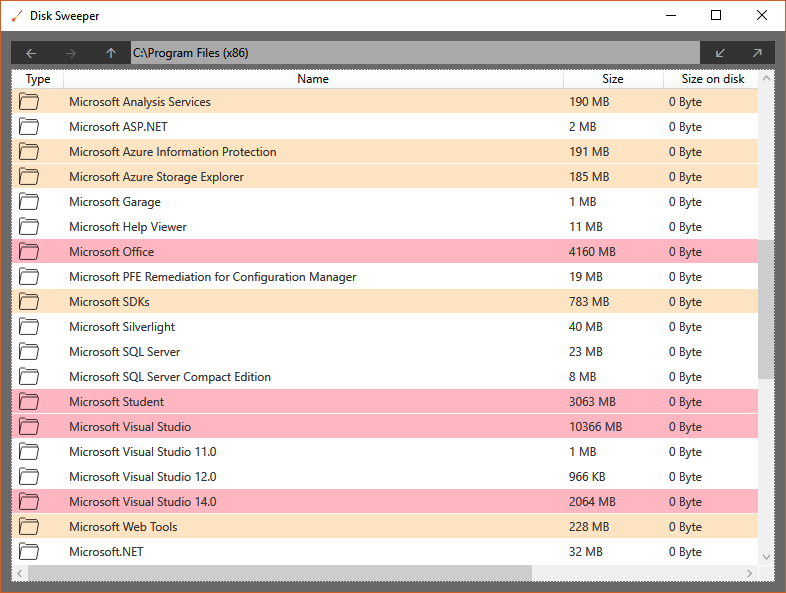
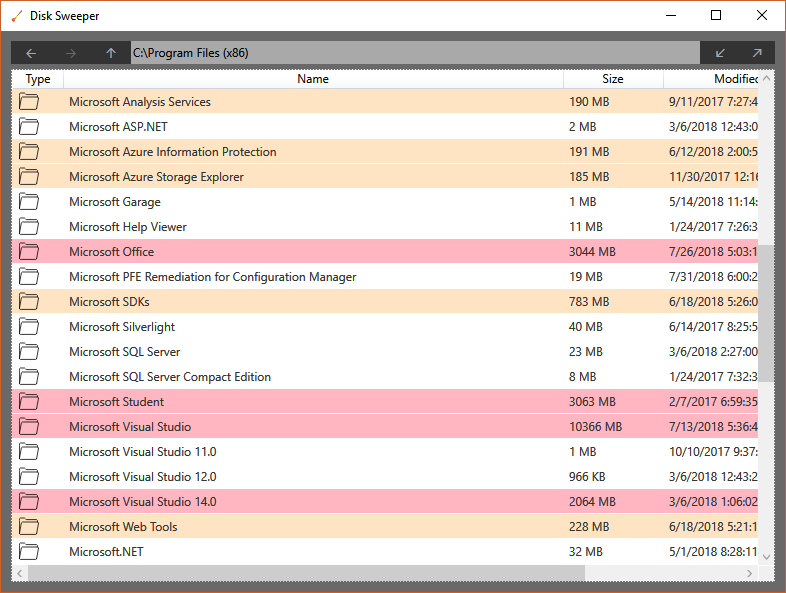
Hide the useless size on disk column

diff --git a/SharpDiskSweeper/DiskSweeper/MainWindow.xaml b/SharpDiskSweeper/DiskSweeper/MainWindow.xaml
@@ -122,11 +122,11 @@
                         DisplayMemberBinding="{Binding SizeString}"
                         local:GridViewSort.PropertyName="Size"
                         Width="100" />
-                    <GridViewColumn
+                    <!--<GridViewColumn
                         Header="Size on disk"
                         DisplayMemberBinding="{Binding SizeOnDiskString}"
                         local:GridViewSort.PropertyName="SizeOnDisk"
-                        Width="100" />
+                        Width="100" />-->
                     <GridViewColumn
                         Header="Modified"
                         DisplayMemberBinding="{Binding Modified}"
